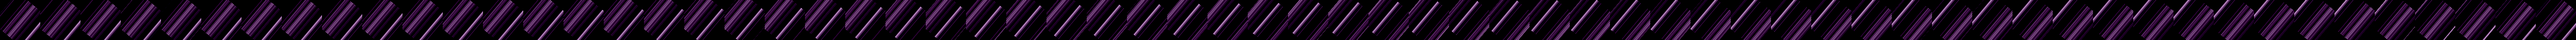
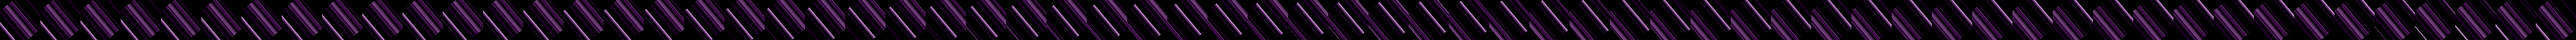
Made enchant effect look better

diff --git a/docs/devtest/js/mainApp.js b/docs/devtest/js/mainApp.js
@@ -120,7 +120,7 @@ function startStuff() {
         glintSheet1 = new createjs.SpriteSheet({
             images: [eGlint1],
             frames: {width:64, height: 64, regX: 16, regY: 0},
-            framerate: 43,
+            framerate: 35,
             animations: {
                 default: {
                     frames: [0,63],
@@ -131,7 +131,7 @@ function startStuff() {
         glintSheet2 = new createjs.SpriteSheet({
             images: [eGlint2],
             frames: {width:64, height: 64, regX: 16, regY: 0},
-            framerate: 30,
+            framerate: 28,
             animations: {
                 default: {
                     frames: [0,63],
